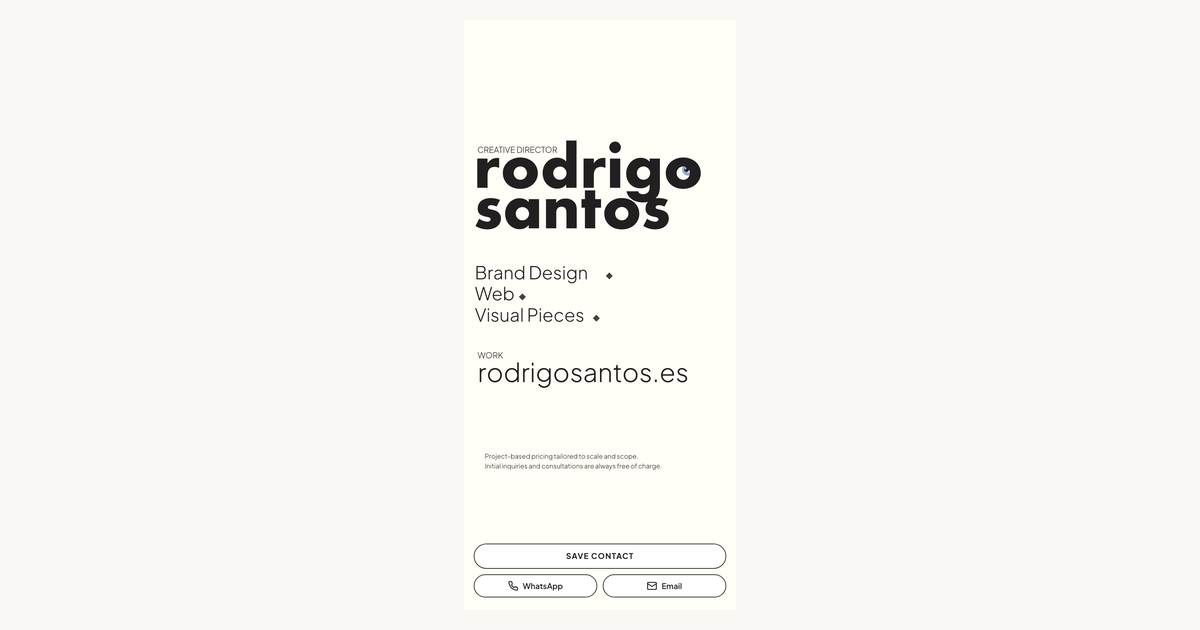
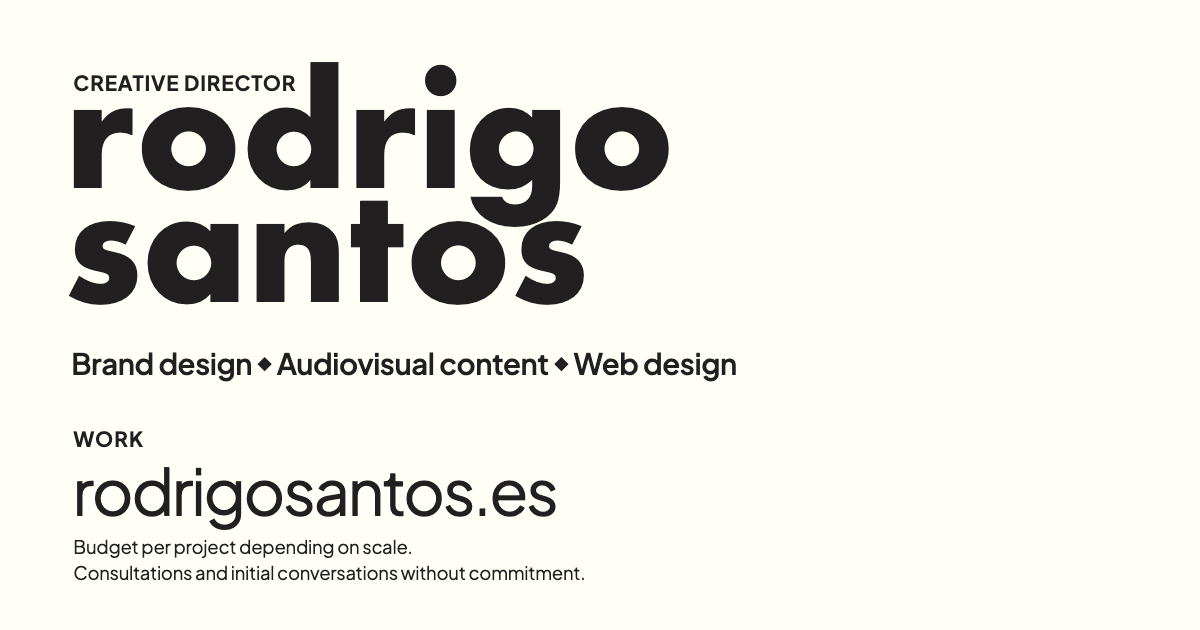
feat(seo): update Open Graph preview image to horizontal business card layout for WhatsApp

diff --git a/index.html b/index.html
@@ -17,22 +17,22 @@
     <meta property="og:site_name" content="Rodrigo Santos" />
     <meta property="og:title" content="Rodrigo Santos — Dirección Creativa" />
     <meta property="og:description" content="Diseño de marca, contenido audiovisual y diseño web con visión estratégica y acabado de agencia." />
-    <meta property="og:image" content="https://www.rodrigosantos.es/og-hola.jpg" />
-    <meta property="og:image:secure_url" content="https://www.rodrigosantos.es/og-hola.jpg" />
+    <meta property="og:image" content="https://www.rodrigosantos.es/og-hola.jpg?v=3" />
+    <meta property="og:image:secure_url" content="https://www.rodrigosantos.es/og-hola.jpg?v=3" />
     <meta property="og:image:type" content="image/jpeg" />
     <meta property="og:image:width" content="1200" />
     <meta property="og:image:height" content="630" />
     <meta property="og:image:alt" content="Rodrigo Santos — Dirección Creativa" />
     <meta property="og:locale" content="es_ES" />
-    <link rel="image_src" href="https://www.rodrigosantos.es/og-hola.jpg" />
-    <meta itemprop="image" content="https://www.rodrigosantos.es/og-hola.jpg" />
+    <link rel="image_src" href="https://www.rodrigosantos.es/og-hola.jpg?v=3" />
+    <meta itemprop="image" content="https://www.rodrigosantos.es/og-hola.jpg?v=3" />
 
     <!-- Twitter -->
     <meta name="twitter:card" content="summary_large_image" />
     <meta name="twitter:url" content="https://www.rodrigosantos.es/" />
     <meta name="twitter:title" content="Rodrigo Santos — Dirección Creativa" />
     <meta name="twitter:description" content="Diseño de marca, contenido audiovisual y diseño web con visión estratégica y acabado de agencia." />
-    <meta name="twitter:image" content="https://www.rodrigosantos.es/og-hola.jpg" />
+    <meta name="twitter:image" content="https://www.rodrigosantos.es/og-hola.jpg?v=3" />
     <link rel="preconnect" href="https://fonts.googleapis.com">
     <link rel="preconnect" href="https://fonts.gstatic.com" crossorigin>
     <link href="https://fonts.googleapis.com/css2?family=Jost:ital,wght@0,300;0,400;0,500;0,600;0,700;0,800;1,400;1,600&family=Plus+Jakarta+Sans:ital,wght@0,300;0,400;0,500;0,600;0,700;1,300;1,400&display=swap" rel="stylesheet">

diff --git a/hola/index.html b/hola/index.html
@@ -18,22 +18,22 @@
     <meta property="og:site_name" content="Rodrigo Santos" />
     <meta property="og:title" content="Rodrigo Santos — Dirección Creativa" />
     <meta property="og:description" content="Diseño de marca, contenido audiovisual y diseño web con visión estratégica y acabado de agencia." />
-    <meta property="og:image" content="https://www.rodrigosantos.es/og-hola.jpg" />
-    <meta property="og:image:secure_url" content="https://www.rodrigosantos.es/og-hola.jpg" />
+    <meta property="og:image" content="https://www.rodrigosantos.es/og-hola.jpg?v=3" />
+    <meta property="og:image:secure_url" content="https://www.rodrigosantos.es/og-hola.jpg?v=3" />
     <meta property="og:image:type" content="image/jpeg" />
     <meta property="og:image:width" content="1200" />
     <meta property="og:image:height" content="630" />
     <meta property="og:image:alt" content="Tarjeta de visita virtual de Rodrigo Santos — Dirección Creativa" />
     <meta property="og:locale" content="es_ES" />
-    <link rel="image_src" href="https://www.rodrigosantos.es/og-hola.jpg" />
-    <meta itemprop="image" content="https://www.rodrigosantos.es/og-hola.jpg" />
+    <link rel="image_src" href="https://www.rodrigosantos.es/og-hola.jpg?v=3" />
+    <meta itemprop="image" content="https://www.rodrigosantos.es/og-hola.jpg?v=3" />
 
     <!-- Twitter -->
     <meta name="twitter:card" content="summary_large_image" />
     <meta name="twitter:url" content="https://www.rodrigosantos.es/hola" />
     <meta name="twitter:title" content="Rodrigo Santos — Dirección Creativa" />
     <meta name="twitter:description" content="Diseño de marca, contenido audiovisual y diseño web con visión estratégica y acabado de agencia." />
-    <meta name="twitter:image" content="https://www.rodrigosantos.es/og-hola.jpg" />
+    <meta name="twitter:image" content="https://www.rodrigosantos.es/og-hola.jpg?v=3" />
 
     <link rel="preconnect" href="https://fonts.googleapis.com">
     <link rel="preconnect" href="https://fonts.gstatic.com" crossorigin>

diff --git a/hello/index.html b/hello/index.html
@@ -18,22 +18,22 @@
     <meta property="og:site_name" content="Rodrigo Santos" />
     <meta property="og:title" content="Rodrigo Santos — Creative Direction" />
     <meta property="og:description" content="Independent creative direction. Brand identity, audiovisual content, and digital design." />
-    <meta property="og:image" content="https://www.rodrigosantos.es/og-hello.jpg" />
-    <meta property="og:image:secure_url" content="https://www.rodrigosantos.es/og-hello.jpg" />
+    <meta property="og:image" content="https://www.rodrigosantos.es/og-hello.jpg?v=3" />
+    <meta property="og:image:secure_url" content="https://www.rodrigosantos.es/og-hello.jpg?v=3" />
     <meta property="og:image:type" content="image/jpeg" />
     <meta property="og:image:width" content="1200" />
     <meta property="og:image:height" content="630" />
     <meta property="og:image:alt" content="Rodrigo Santos Virtual Business Card — Creative Direction" />
     <meta property="og:locale" content="en_US" />
-    <link rel="image_src" href="https://www.rodrigosantos.es/og-hello.jpg" />
-    <meta itemprop="image" content="https://www.rodrigosantos.es/og-hello.jpg" />
+    <link rel="image_src" href="https://www.rodrigosantos.es/og-hello.jpg?v=3" />
+    <meta itemprop="image" content="https://www.rodrigosantos.es/og-hello.jpg?v=3" />
 
     <!-- Twitter -->
     <meta name="twitter:card" content="summary_large_image" />
     <meta name="twitter:url" content="https://www.rodrigosantos.es/hello" />
     <meta name="twitter:title" content="Rodrigo Santos — Creative Direction" />
     <meta name="twitter:description" content="Independent creative direction. Brand identity, audiovisual content, and digital design." />
-    <meta name="twitter:image" content="https://www.rodrigosantos.es/og-hello.jpg" />
+    <meta name="twitter:image" content="https://www.rodrigosantos.es/og-hello.jpg?v=3" />
 
     <link rel="preconnect" href="https://fonts.googleapis.com">
     <link rel="preconnect" href="https://fonts.gstatic.com" crossorigin>
